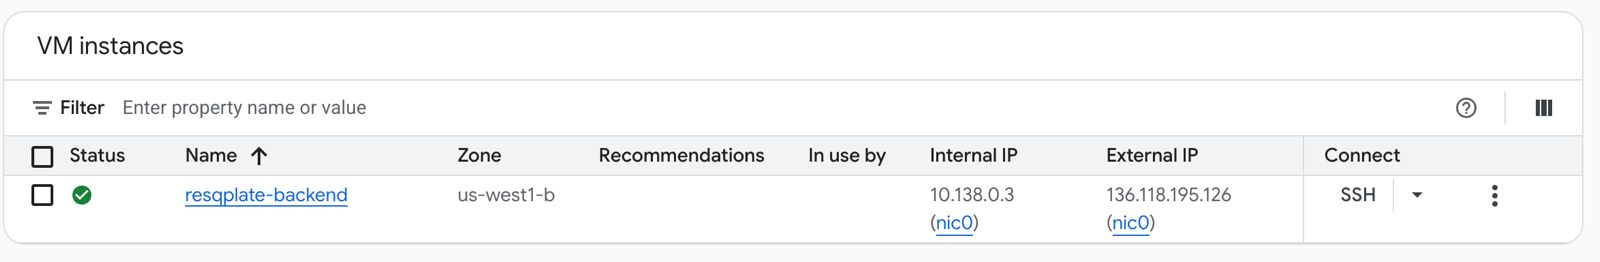
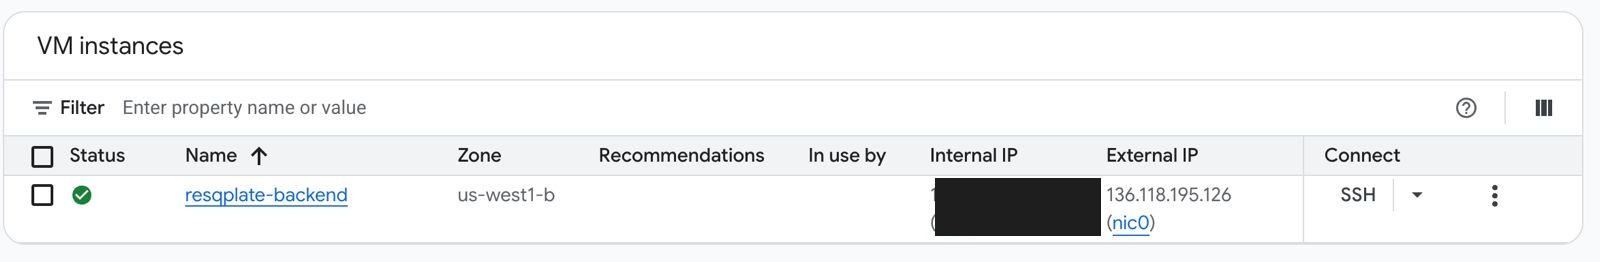
updated readme file

Changed region(s): [[0.5625, 0.6718, 0.6875, 0.916], [0.1562, 0.7634, 0.1875, 0.7939]]

diff --git a/README.md b/README.md
@@ -23,7 +23,7 @@ Food insecurity and food waste are both serious problems, and they're related. M
 
 ## Screenshots
 
-Production infrastructure: Cloudflare Pages, Cloud SQL, and the backend VM on GCP.
+Previous production deployment: ResQPlate was deployed using Cloudflare Pages, GCP Compute Engine, Cloud SQL, Secret Manager, and Caddy. The deployment is no longer active; these screenshots document the infrastructure that was configured and operated during the project.
 
 <p>
   <img src="screenshots/cloudflare-pages.jpeg" width="32%" alt="Cloudflare Pages deployment" />
@@ -31,7 +31,7 @@ Production infrastructure: Cloudflare Pages, Cloud SQL, and the backend VM on GC
   <img src="screenshots/VM-basic-detail.jpeg" width="32%" alt="Backend VM configuration" />
 </p>
 
-More in [`/screenshots`](/screenshots/).
+More in [`/screenshots`](/screenshots/). Internal IPs and instance IDs are redacted; the deployment behind them no longer exists.
 
 ## Architecture
 
